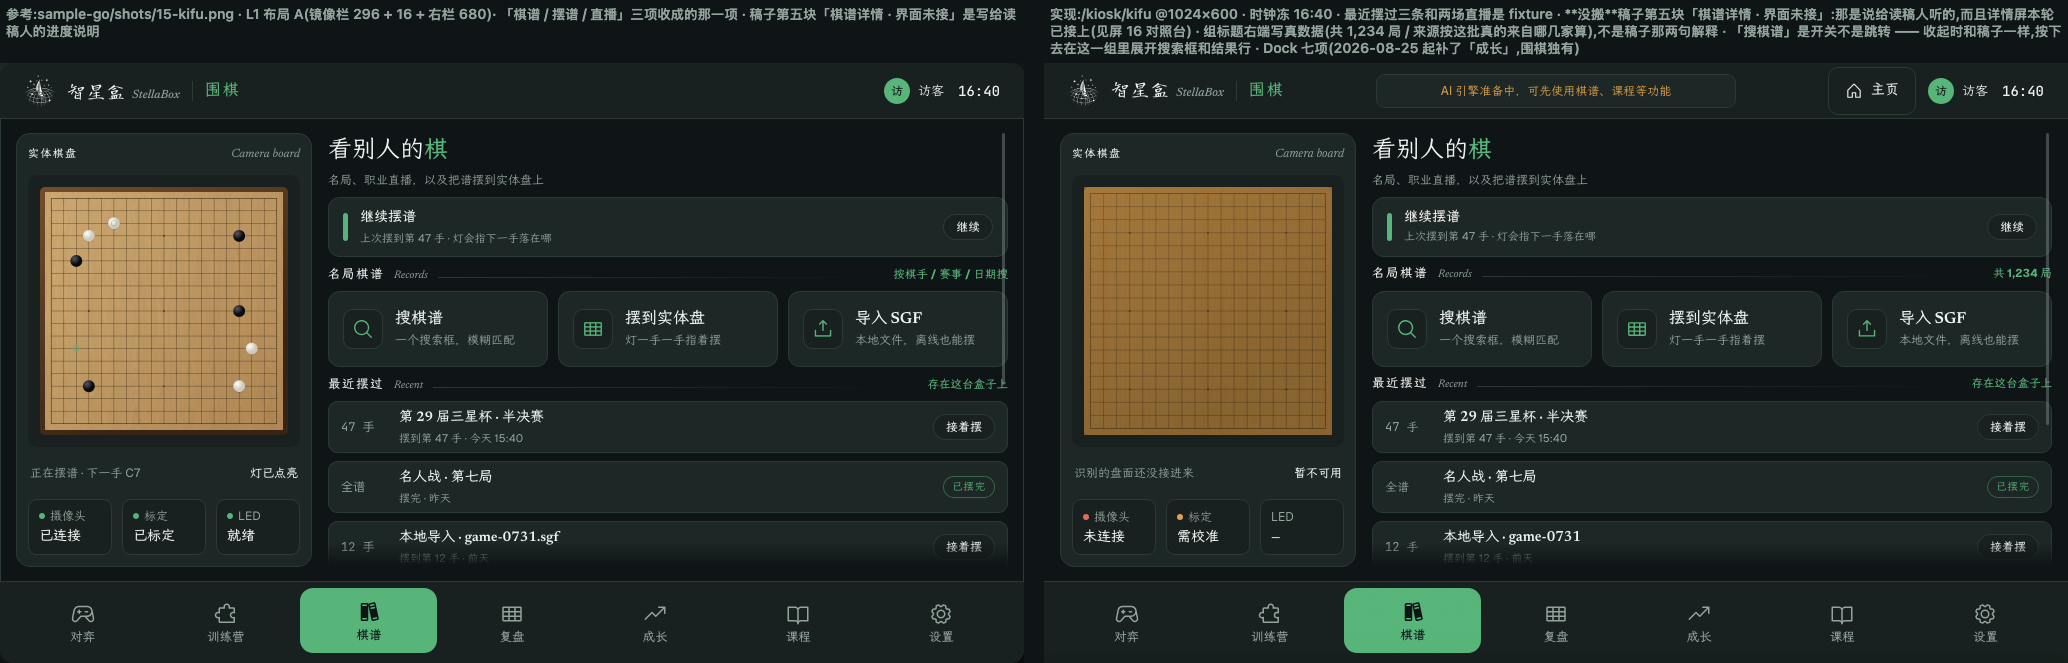
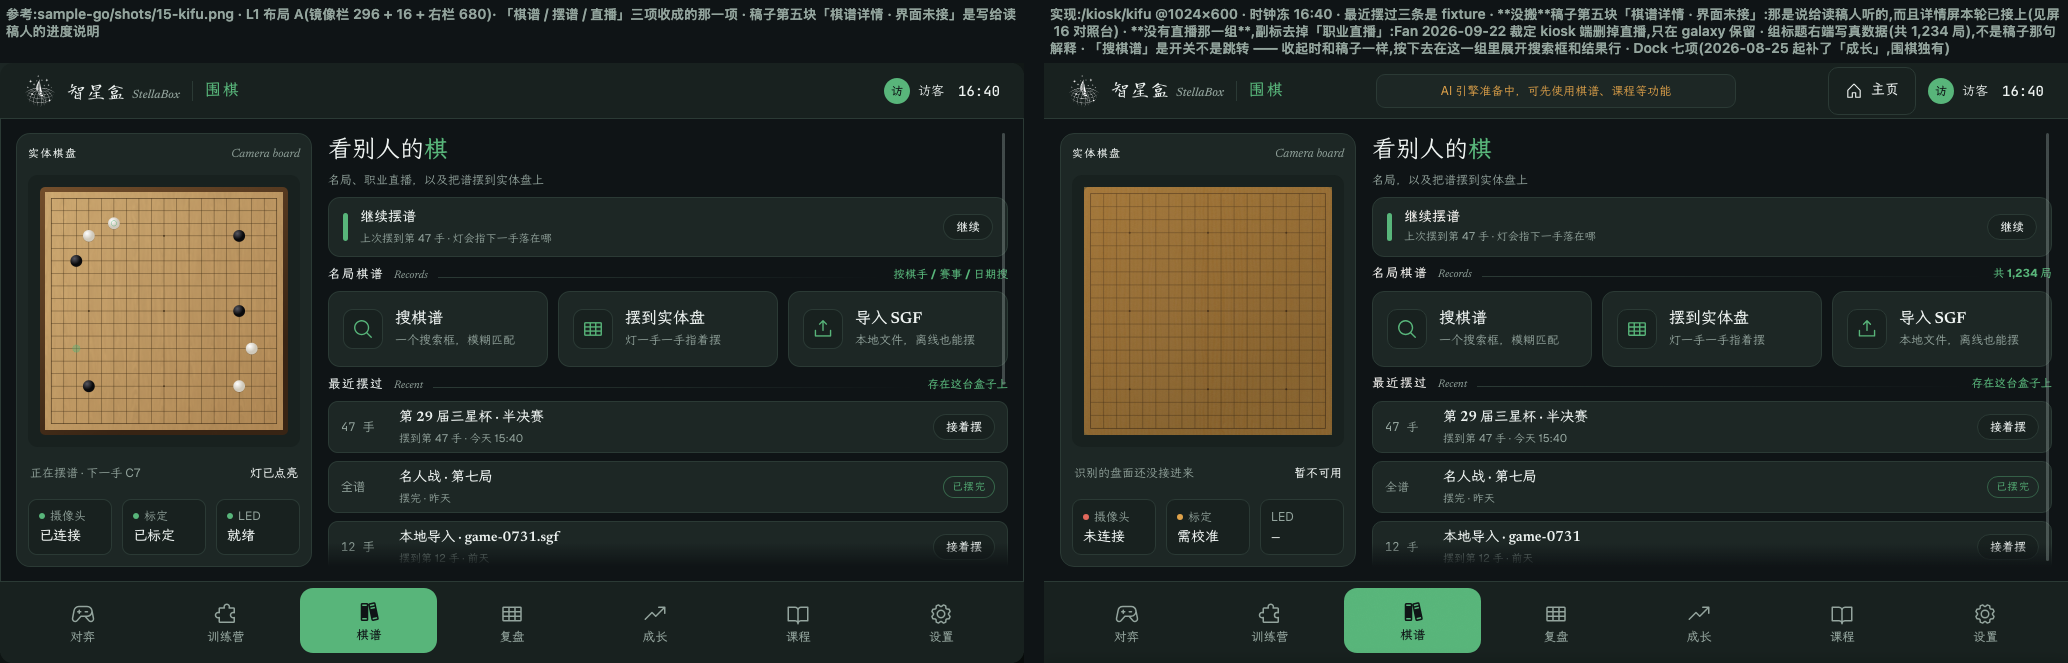
i18n(kiosk): 屏 15 问候副标去掉「职业直播」,11 语种同步;屏 15 四图重拍
kiosk 端删了直播,「名局、职业直播，以及把谱摆到实体盘上」就成了屏上许诺没有的东西。
kifu:greet_sub 改为「名局，以及把谱摆到实体盘上」,11 份 PO 只动这一条
(用批量脚本的 update_po_file 单独喂这一个 key,脚本字典同步改),
test_kiosk_i18n / test_i18n_catalog 14 条全过;契约闸四只剩基线上同样存在的 GamePage 一条。

屏 15 四图 spec 去掉直播桩数据、说明补上这条裁定。两次重拍互差 22 像素(底噪),
与上一版的差异聚在副标那一行和滚动条拇指(内容变短)。参考图未变。

Changed region(s): [[0.4952, 0.0, 1.0, 0.0905], [0.6809, 0.2413, 0.7427, 0.3017]]

diff --git a/katrain/web/ui/tests/kiosk-screen-15-kifu.fourup.spec.ts b/katrain/web/ui/tests/kiosk-screen-15-kifu.fourup.spec.ts
@@ -14,13 +14,16 @@ const OUT = resolve(process.cwd(),
 /**
  * 屏 15 棋谱(L1 布局 A,形态 1)。
  *
- * 造的数据逐条对着稿子那张图:三条「最近摆过」的名字、手数、时间,和两场直播。
+ * 造的数据逐条对着稿子那张图:三条「最近摆过」的名字、手数、时间。
  * 时钟冻在 16:40,所以第一条 15:40 落在「今天 15:40」上、第二条落「昨天」、第三条落「前天」。
  *
  * ⚠ **两处稿子上有而实现里没有的**,差异图上会红一片,都是预期:
  *  ① 稿子第五块「棋谱详情 · 后端已有 · 界面未接」—— 那是**说给读稿人听的**进度说明
  *    (块里印着 `PlaceholderPage` 和 `galaxy/pages/KifuLibraryPage.tsx` 两个文件名),
  *    而且它说的事本轮已经不成立:详情屏接上了,就是下一张对照台那一屏。
+ *  ② 稿子的「职业直播」那一组(在首屏之下)和问候副标里的「职业直播」四个字 ——
+ *    Fan 2026-09-22 裁定 **kiosk 端删掉整个直播模块,只在 galaxy 保留**。副标因此改成
+ *    「名局，以及把谱摆到实体盘上」,首帧里那一行字的差异是预期。
  */
 const ALBUMS = Array.from({ length: 6 }, (_, i) => ({
   id: i + 1,
@@ -31,23 +34,6 @@ const ALBUMS = Array.from({ length: 6 }, (_, i) => ({
   date_played: '2026-06-30', board_size: 19, handicap: 0,
   komi: 7.5, rules: 'chinese',
 }));
-
-const MATCHES = [
-  {
-    id: 'm1', source: 'xingzhen', tournament: '第 29 届三星杯', round_name: '八强',
-    date: '2026-08-20T06:00:00Z', player_black: '柯洁', player_white: '申真谞',
-    black_rank: '九段', white_rank: '九段', status: 'live', result: null, move_count: 118,
-    current_winrate: 0.52, current_score: 1.2, last_updated: '',
-    board_size: 19, komi: 7.5, rules: 'chinese',
-  },
-  {
-    id: 'm2', source: 'yike', tournament: '名人战挑战赛', round_name: '第三局',
-    date: '2026-08-20T06:00:00Z', player_black: '芈昱廷', player_white: '杨鼎新',
-    black_rank: '九段', white_rank: '九段', status: 'scheduled', result: null, move_count: 0,
-    current_winrate: 0.5, current_score: 0, last_updated: '',
-    board_size: 19, komi: 7.5, rules: 'chinese',
-  },
-];
 
 test('四图:棋谱 ←→ sample-go/shots/15-kifu.png', async ({ page }) => {
   await freezeClock(page);
@@ -79,9 +65,6 @@ test('四图:棋谱 ←→ sample-go/shots/15-kifu.png', async ({ page }) => {
   await page.route('**/api/v1/kifu/albums*', (route) => route.fulfill({
     json: { items: ALBUMS, total: 1234, page: 1, page_size: 6 },
   }));
-  await page.route('**/live/matches*', (route) => route.fulfill({
-    json: { matches: MATCHES, live_count: 1, total: 2 },
-  }));
   await page.goto('/kiosk/kifu');
   await page.waitForSelector('[data-testid="kifu-recent-rows"] .kiosk-row:nth-child(3)');
   await page.waitForLoadState('networkidle');
@@ -95,9 +78,10 @@ test('四图:棋谱 ←→ sample-go/shots/15-kifu.png', async ({ page }) => {
       '参考:sample-go/shots/15-kifu.png · L1 布局 A(镜像栏 296 + 16 + 右栏 680)· '
       + '「棋谱 / 摆谱 / 直播」三项收成的那一项 · 稿子第五块「棋谱详情 · 界面未接」是写给读稿人的进度说明',
     implementationCaption:
-      '实现:/kiosk/kifu @1024×600 · 时钟冻 16:40 · 最近摆过三条和两场直播是 fixture · '
+      '实现:/kiosk/kifu @1024×600 · 时钟冻 16:40 · 最近摆过三条是 fixture · '
       + '**没搬**稿子第五块「棋谱详情 · 界面未接」:那是说给读稿人听的,而且详情屏本轮已接上(见屏 16 对照台) · '
-      + '组标题右端写真数据(共 1,234 局 / 来源按这批真的来自哪几家算),不是稿子那两句解释 · '
+      + '**没有直播那一组**,副标去掉「职业直播」:Fan 2026-09-22 裁定 kiosk 端删掉直播,只在 galaxy 保留 · '
+      + '组标题右端写真数据(共 1,234 局),不是稿子那句解释 · '
       + '「搜棋谱」是开关不是跳转 —— 收起时和稿子一样,按下去在这一组里展开搜索框和结果行 · '
       + 'Dock 七项(2026-08-25 起补了「成长」,围棋独有)',
   });

diff --git a/scripts/batch_translate_galaxy.py b/scripts/batch_translate_galaxy.py
@@ -9870,7 +9870,7 @@ GALAXY_TRANSLATIONS = {
     "kifu:back_kifu": {"en": "Records", "cn": "棋谱", "tw": "棋譜", "jp": "棋譜", "ko": "기보", "de": "Kifu", "es": "Partidas", "fr": "Kifus", "ru": "Кифу", "tr": "Kayıtlar", "ua": "Кіфу"},
     "kifu:greet_a": {"en": "Other people's ", "cn": "看别人的", "tw": "看別人的", "jp": "ほかの人の", "ko": "다른 사람의 ", "de": "Die Partien ", "es": "Las partidas ", "fr": "Les parties ", "ru": "Чужие ", "tr": "Başkalarının ", "ua": "Чужі "},
     "kifu:greet_b": {"en": "games", "cn": "棋", "tw": "棋", "jp": "碁", "ko": "바둑", "de": "anderer", "es": "de otros", "fr": "des autres", "ru": "партии", "tr": "oyunları", "ua": "партії"},
-    "kifu:greet_sub": {"en": "Famous games, pro broadcasts, and replaying records onto the real board", "cn": "名局、职业直播，以及把谱摆到实体盘上", "tw": "名局、職業直播，以及把譜擺到實體盤上", "jp": "名局、プロの中継、そして棋譜を実物の盤に並べること", "ko": "명국, 프로 중계, 그리고 기보를 실물 판에 놓기", "de": "Berühmte Partien, Profi-Übertragungen und Nachstellen auf dem echten Brett", "es": "Partidas famosas, retransmisiones profesionales y reproducción en el tablero físico", "fr": "Parties célèbres, diffusions pro et rejeu sur le goban réel", "ru": "Знаменитые партии, профессиональные трансляции и раскладка на реальной доске", "tr": "Ünlü oyunlar, profesyonel yayınlar ve kayıtları gerçek tahtaya dizme", "ua": "Відомі партії, професійні трансляції та розкладка на справжній дошці"},
+    "kifu:greet_sub": {"en": "Famous games and replaying records onto the real board", "cn": "名局，以及把谱摆到实体盘上", "tw": "名局，以及把譜擺到實體盤上", "jp": "名局、そして棋譜を実物の盤に並べること", "ko": "명국, 그리고 기보를 실물 판에 놓기", "de": "Berühmte Partien und Nachstellen auf dem echten Brett", "es": "Partidas famosas y reproducción en el tablero físico", "fr": "Parties célèbres et rejeu sur le goban réel", "ru": "Знаменитые партии и раскладка на реальной доске", "tr": "Ünlü oyunlar ve kayıtları gerçek tahtaya dizme", "ua": "Відомі партії та розкладка на справжній дошці"},
     "kifu:famous_records": {"en": "Famous games", "cn": "名局棋谱", "tw": "名局棋譜", "jp": "名局の棋譜", "ko": "명국 기보", "de": "Berühmte Partien", "es": "Partidas famosas", "fr": "Parties célèbres", "ru": "Знаменитые партии", "tr": "Ünlü oyunlar", "ua": "Відомі партії"},
     "kifu:search_records": {"en": "Search records", "cn": "搜棋谱", "tw": "搜棋譜", "jp": "棋譜を検索", "ko": "기보 검색", "de": "Kifu suchen", "es": "Buscar partidas", "fr": "Rechercher des kifus", "ru": "Искать кифу", "tr": "Kayıt ara", "ua": "Шукати кіфу"},
     "kifu:search_sub": {"en": "One search box, fuzzy matching", "cn": "一个搜索框，模糊匹配", "tw": "一個搜尋框，模糊比對", "jp": "検索ボックス 1 つ、あいまい一致", "ko": "검색창 하나, 유사 검색", "de": "Ein Suchfeld, unscharfe Treffer", "es": "Una caja de búsqueda, coincidencia aproximada", "fr": "Un champ de recherche, correspondance approximative", "ru": "Одно поле поиска, нечёткое совпадение", "tr": "Tek arama kutusu, bulanık eşleşme", "ua": "Одне поле пошуку, нечіткий збіг"},
